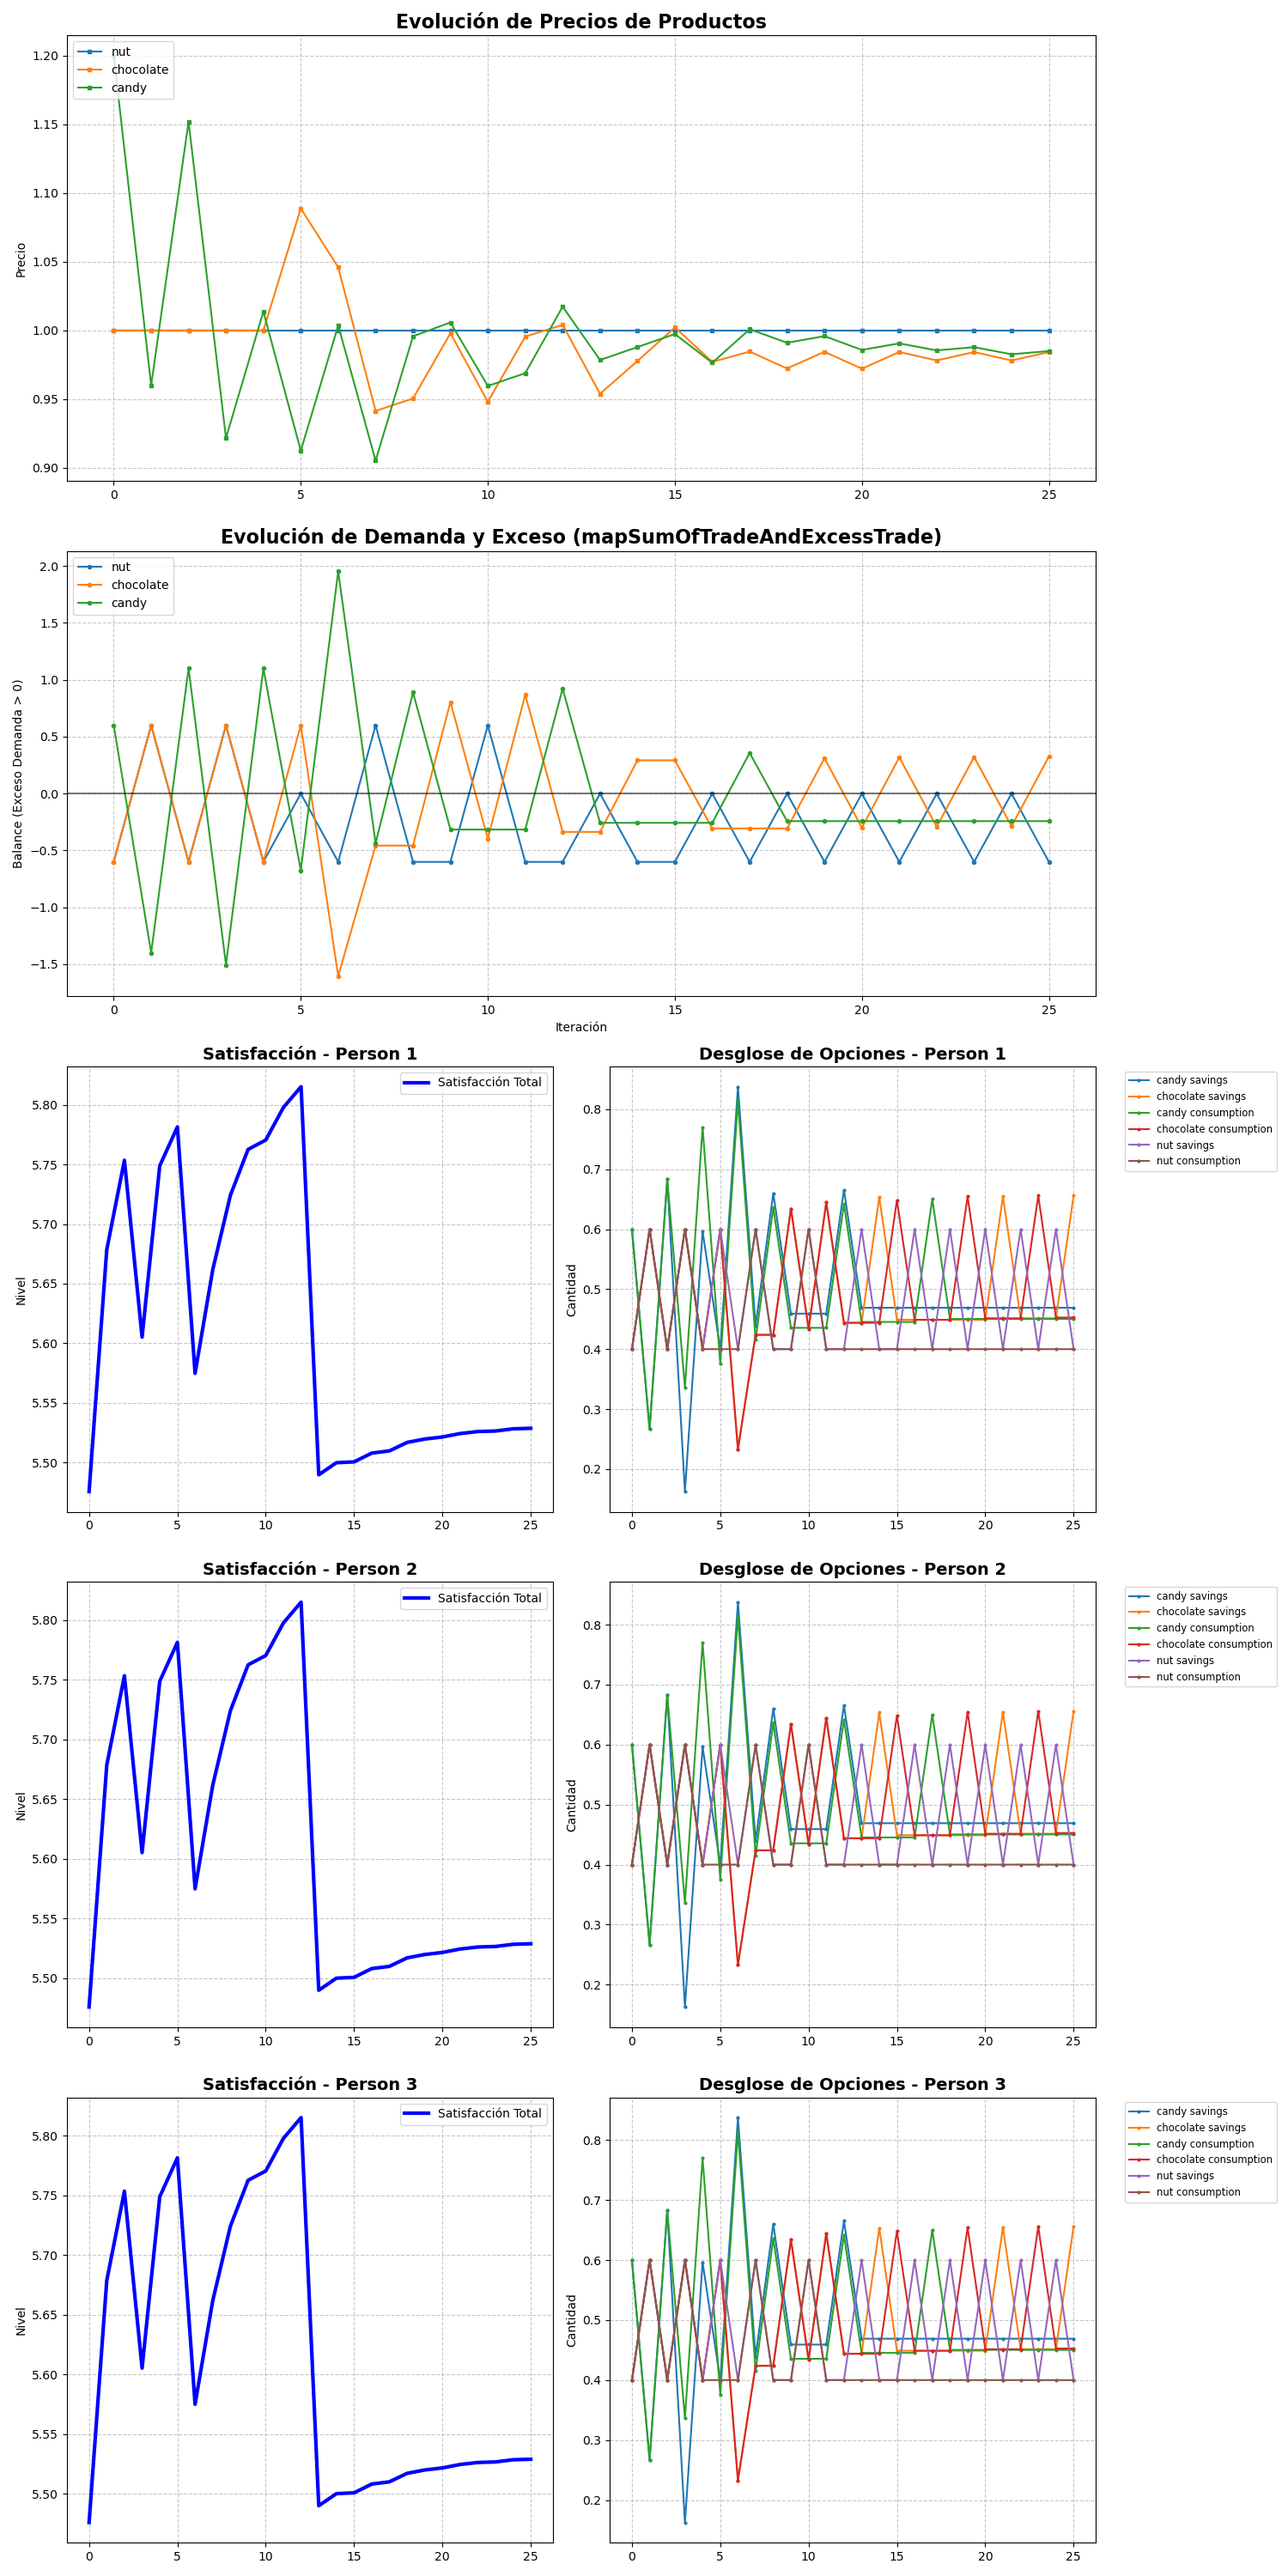
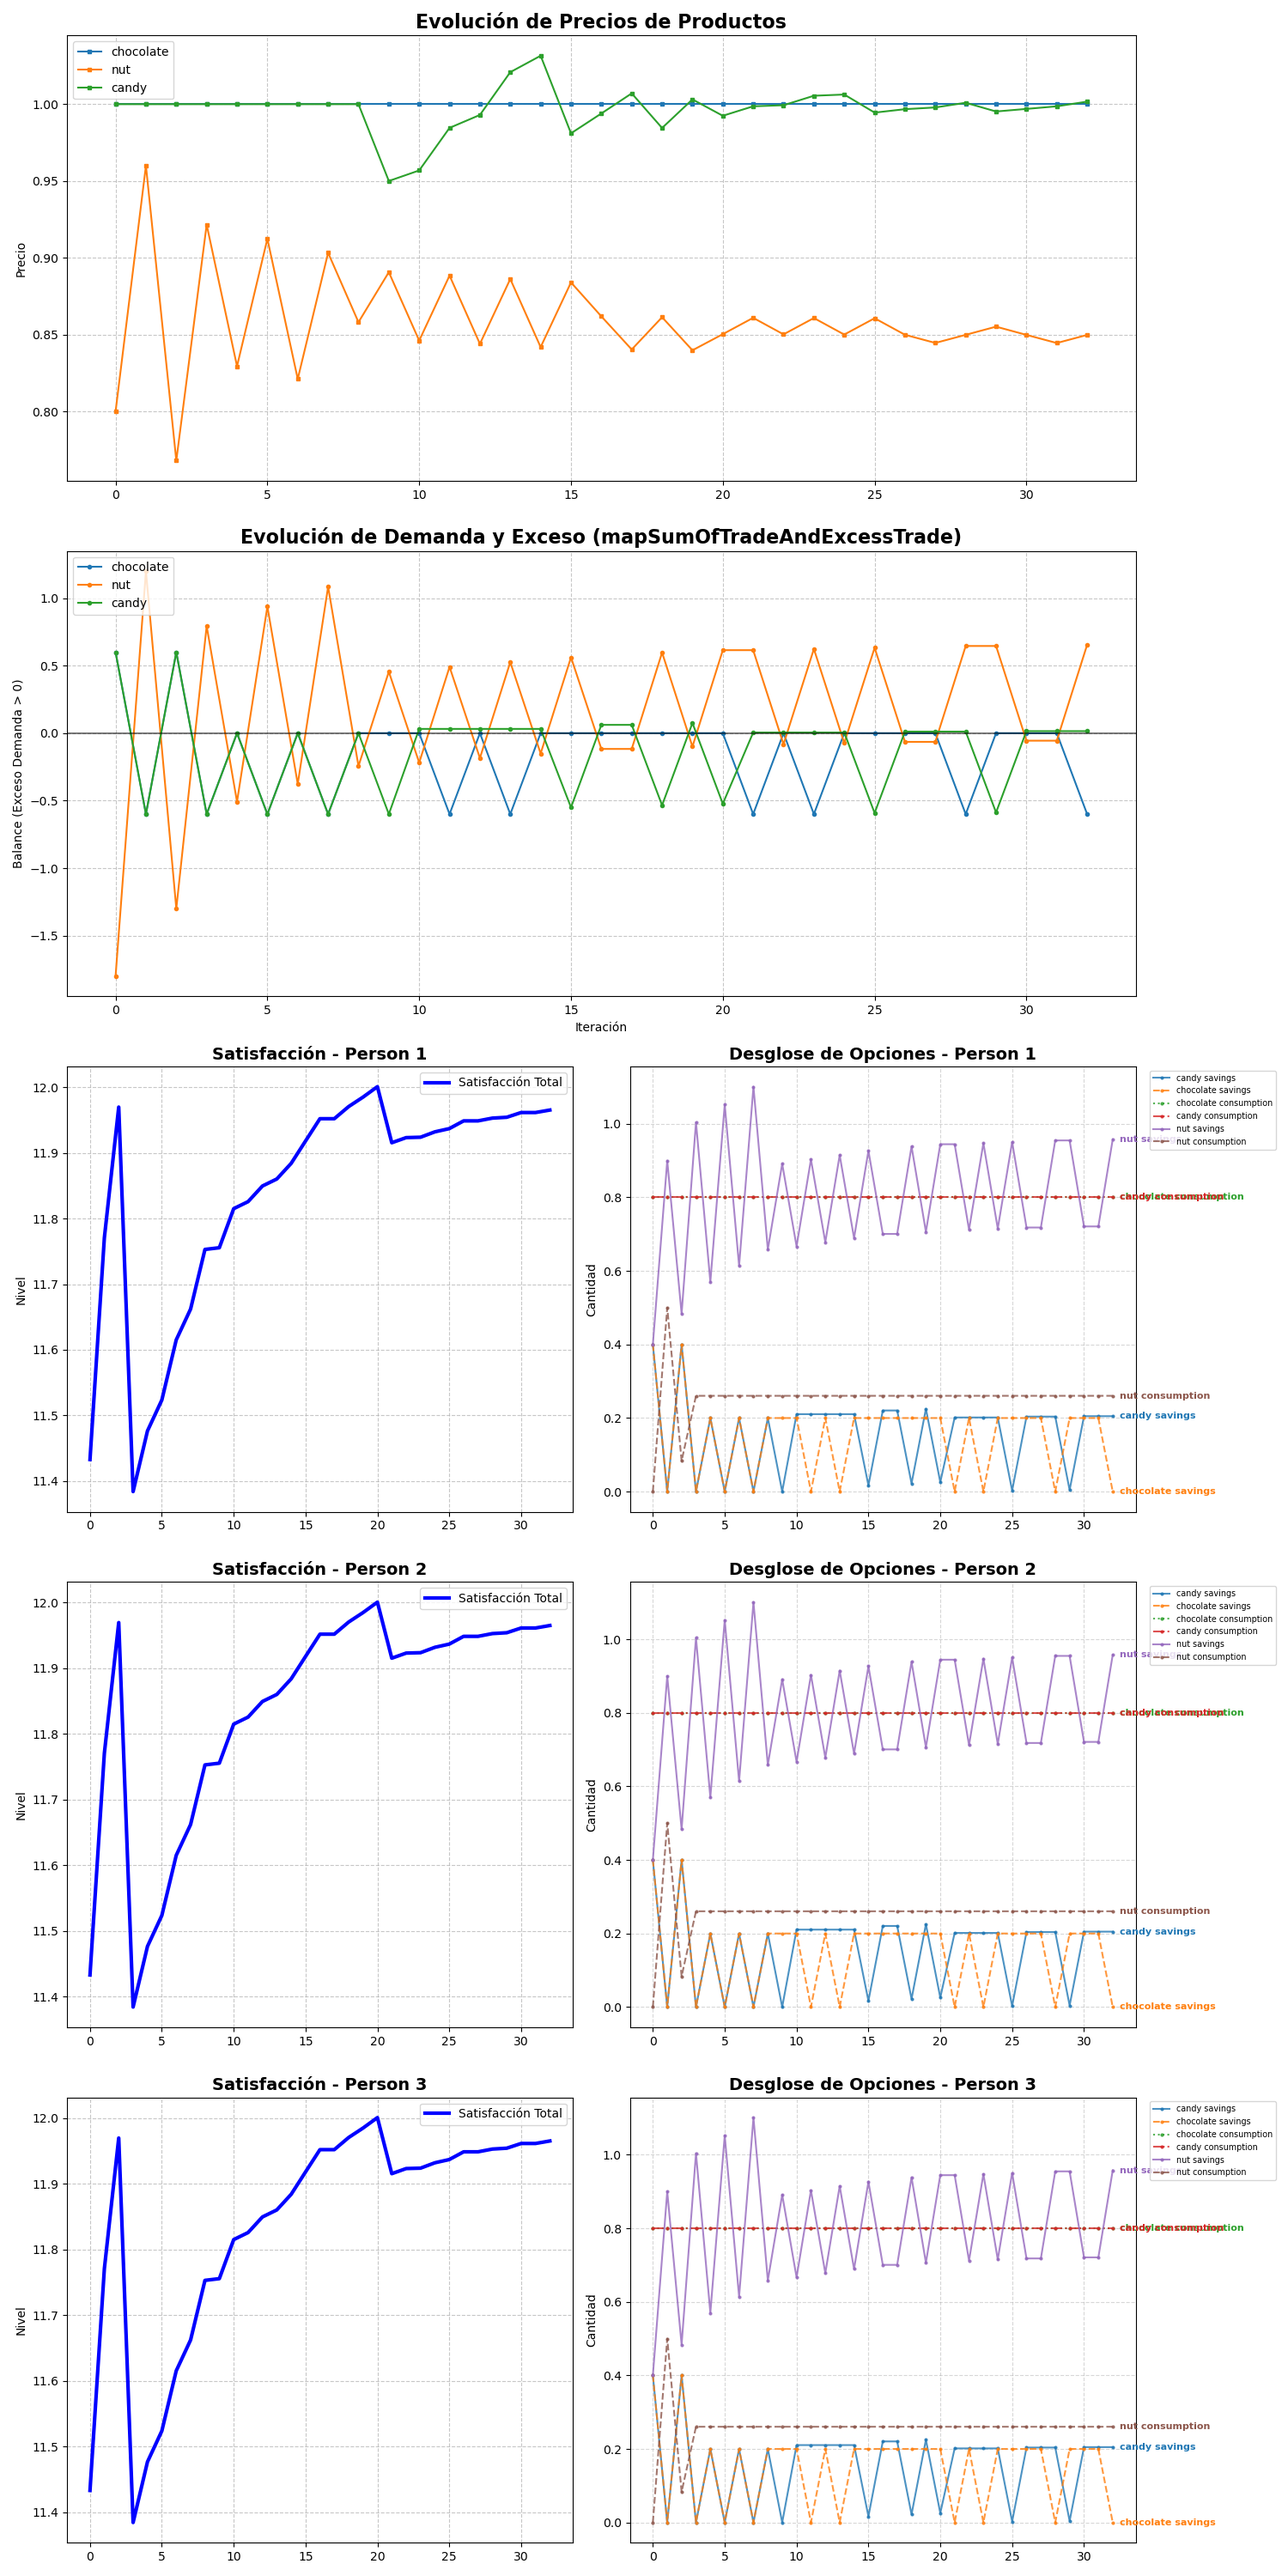
Refactorización y corrección de la lógica de identificación de ahorro vs consumo, y optimización del ajuste de presupuesto en TradeCalculator. Pendientes por corregir: 4. Estado 'Stale' en el Ajuste de Precios (Market.cpp) y 5. Interfaz de Usuario Bloqueante (Utils.cpp)

diff --git a/GDNativeSource/PriceCalculator/src/TradeCalculator.cpp b/GDNativeSource/PriceCalculator/src/TradeCalculator.cpp
@@ -75,29 +75,27 @@ std::map<pca::COption *, double> pca::CTradeCalculator::AdjustBestCombidict(
     bool bChangeMade = false;
     double dMaxSatisfactionFound = -1e308; // Valor inicial muy pequeño
     std::map<COption *, double> mapBestTryingCombination = mapCombination;
+    double dActualBudgetFreed = 0.0;
 
     for (auto &pOptionToRemove : vOptions) {
+      if (mapCombination[pOptionToRemove] <= 0.0) continue;
+
       CProduct *pProductToRemove = pOptionToRemove->GetProduct();
       double dPrice = m_pPricesRef->GetPriceOfProduct(pProductToRemove);
 
       if (dPrice <= 0.0)
         continue; // Protección contra división por cero o precios inválidos
 
+      double dAmountToRemove = dBudgetStepLength / dPrice;
+      if (mapCombination[pOptionToRemove] < dAmountToRemove) {
+          dAmountToRemove = mapCombination[pOptionToRemove];
+      }
+
       std::map<COption *, double> mapTryingCombinationRemovingProduct =
           mapCombination;
-      double dRemoveProductStep = dBudgetStepLength / dPrice;
-
-      if (mapTryingCombinationRemovingProduct.find(pOptionToRemove) ==
-          mapTryingCombinationRemovingProduct.end()) {
-        mapTryingCombinationRemovingProduct[pOptionToRemove] = 0.0;
-      }
-
+      
       mapTryingCombinationRemovingProduct[pOptionToRemove] -=
-          dRemoveProductStep;
-
-      if (mapTryingCombinationRemovingProduct[pOptionToRemove] < 0.0) {
-        continue;
-      }
+          dAmountToRemove;
 
       double dSatisfactionOfTryingCombination =
           m_upSatisfactionCalculator->CalculateSatisfOfCombidict(
@@ -106,6 +104,7 @@ std::map<pca::COption *, double> pca::CTradeCalculator::AdjustBestCombidict(
       if (dSatisfactionOfTryingCombination > dMaxSatisfactionFound) {
         dMaxSatisfactionFound = dSatisfactionOfTryingCombination;
         mapBestTryingCombination = mapTryingCombinationRemovingProduct;
+        dActualBudgetFreed = dAmountToRemove * dPrice;
         bChangeMade = true;
       }
     }
@@ -113,7 +112,7 @@ std::map<pca::COption *, double> pca::CTradeCalculator::AdjustBestCombidict(
     if (true == bChangeMade) {
       mapCombination = mapBestTryingCombination;
       dBestPreviousSatisfaction = dMaxSatisfactionFound;
-      dLeftMoney += dBudgetStepLength;
+      dLeftMoney += dActualBudgetFreed;
 
       if (c_traces)
         std::cout << "Element eliminated. dLeftMoney: " << dLeftMoney

diff --git a/GDNativeSource/PriceCalculator/src/Tester.cpp b/GDNativeSource/PriceCalculator/src/Tester.cpp
@@ -13,6 +13,7 @@
 #include "Option.h"
 #include "Utils.h"
 #include "Person.h"
+#include "Product.h"
 
 
 
@@ -175,6 +176,20 @@ int pca::CTester::Test_SatisfactionCalculator()
 
         std::cout << "Prices after CalculateNewPrices:" << std::endl;
         CUtils::PrintPrices(oMarket.GetPricesRef());
+
+        std::cout << std::endl << "--- VERIFICACION DE FIX: Ahorro vs Consumo (Person 1) ---" << std::endl;
+        auto mapOptions = pPerson_1_Ref->GetMapCurrentOpt_Amount();
+        auto mapSaved = pPerson_1_Ref->GetSavedProductsFromOptions(mapOptions);
+        auto mapConsumed = pPerson_1_Ref->GetConsumedProductsFromOptions(mapOptions);
+
+        std::cout << "Productos identificados como AHORRO:" << std::endl;
+        if (mapSaved.empty()) std::cout << "  (Ninguno)" << std::endl;
+        for (auto& pair : mapSaved) std::cout << "  - " << pair.first->GetName() << ": " << pair.second << std::endl;
+
+        std::cout << "Productos identificados como CONSUMO:" << std::endl;
+        if (mapConsumed.empty()) std::cout << "  (Ninguno)" << std::endl;
+        for (auto& pair : mapConsumed) std::cout << "  - " << pair.first->GetName() << ": " << pair.second << std::endl;
+        std::cout << "--------------------------------------------------------" << std::endl << std::endl;
 
         // Generar log de ajuste de mercado y mostrar gráficas
         CUtils::PrintPersonsOptionAdjustmentToFile(&oMarket);

diff --git a/GDNativeSource/PriceCalculator/src/Person.cpp b/GDNativeSource/PriceCalculator/src/Person.cpp
@@ -144,7 +144,7 @@ std::map<pca::CProduct*, double> pca::CPerson::GetSavedProductsFromOptions(const
             if (pProduct)
             {
                 double dAmount = pairOptionAmount.second;
-                mapsumProductAmount[pProduct] = dAmount;
+                mapsumProductAmount[pProduct] += dAmount;
             }                
         }
     }
@@ -165,7 +165,7 @@ std::map<pca::CProduct*, double> pca::CPerson::GetConsumedProductsFromOptions(co
             if (pProduct)
             {
                 double dAmount = pairOptionAmount.second;
-                mapsumProductAmount[pProduct] = dAmount;
+                mapsumProductAmount[pProduct] += dAmount;
             }
         }
     }

diff --git a/GDNativeSource/PriceCalculator/src/Reality.cpp b/GDNativeSource/PriceCalculator/src/Reality.cpp
@@ -97,7 +97,8 @@ void pca::CReality::InitDefaultProductsAndOptions()
 
         if (pProduct)
         {
-            std::unique_ptr<COption> upOption(new COption(sOptionName, pProduct));
+            bool bIsSaving = (sOptionName.find("savings") != std::string::npos);
+            std::unique_ptr<COption> upOption(new COption(sOptionName, pProduct, bIsSaving));
             upOptions.get()->AddOption(std::move(upOption));
         }
         else
